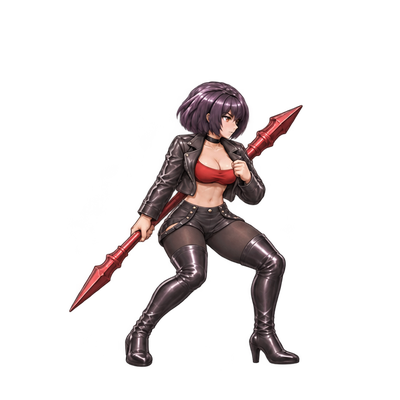
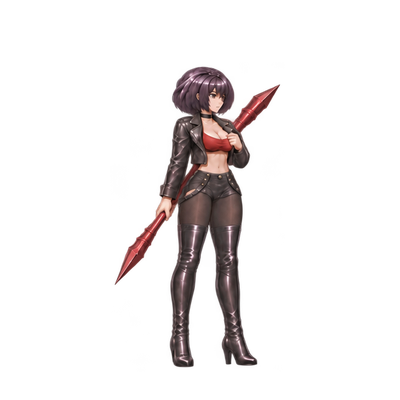
调整绯焰七帧待机为直立站姿

Changed region(s): [[0.15, 0.15, 0.75, 0.93]]

diff --git a/RevGame_Client/美术/AI生成/新版/绯焰决斗/新版/素材说明.md b/RevGame_Client/美术/AI生成/新版/绯焰决斗/新版/素材说明.md
@@ -1,6 +1,6 @@
 # 绯焰决斗新版序列帧
 
-新版按原有动作目录整理，帧图为 400×400 RGBA PNG。待机采用第二张参考图的屈膝持枪站姿，按文件名前缀 00 到 06 播放，再回到 00。
+新版按原有动作目录整理，帧图为 400×400 RGBA PNG。待机采用直立持枪站姿，膝盖保持自然微弯，按文件名前缀 00 到 06 播放，再回到 00。
 
 | 帧序 | 00 | 01 | 02 | 03 | 04 | 05 | 06 |
 | --- | ---: | ---: | ---: | ---: | ---: | ---: | ---: |
